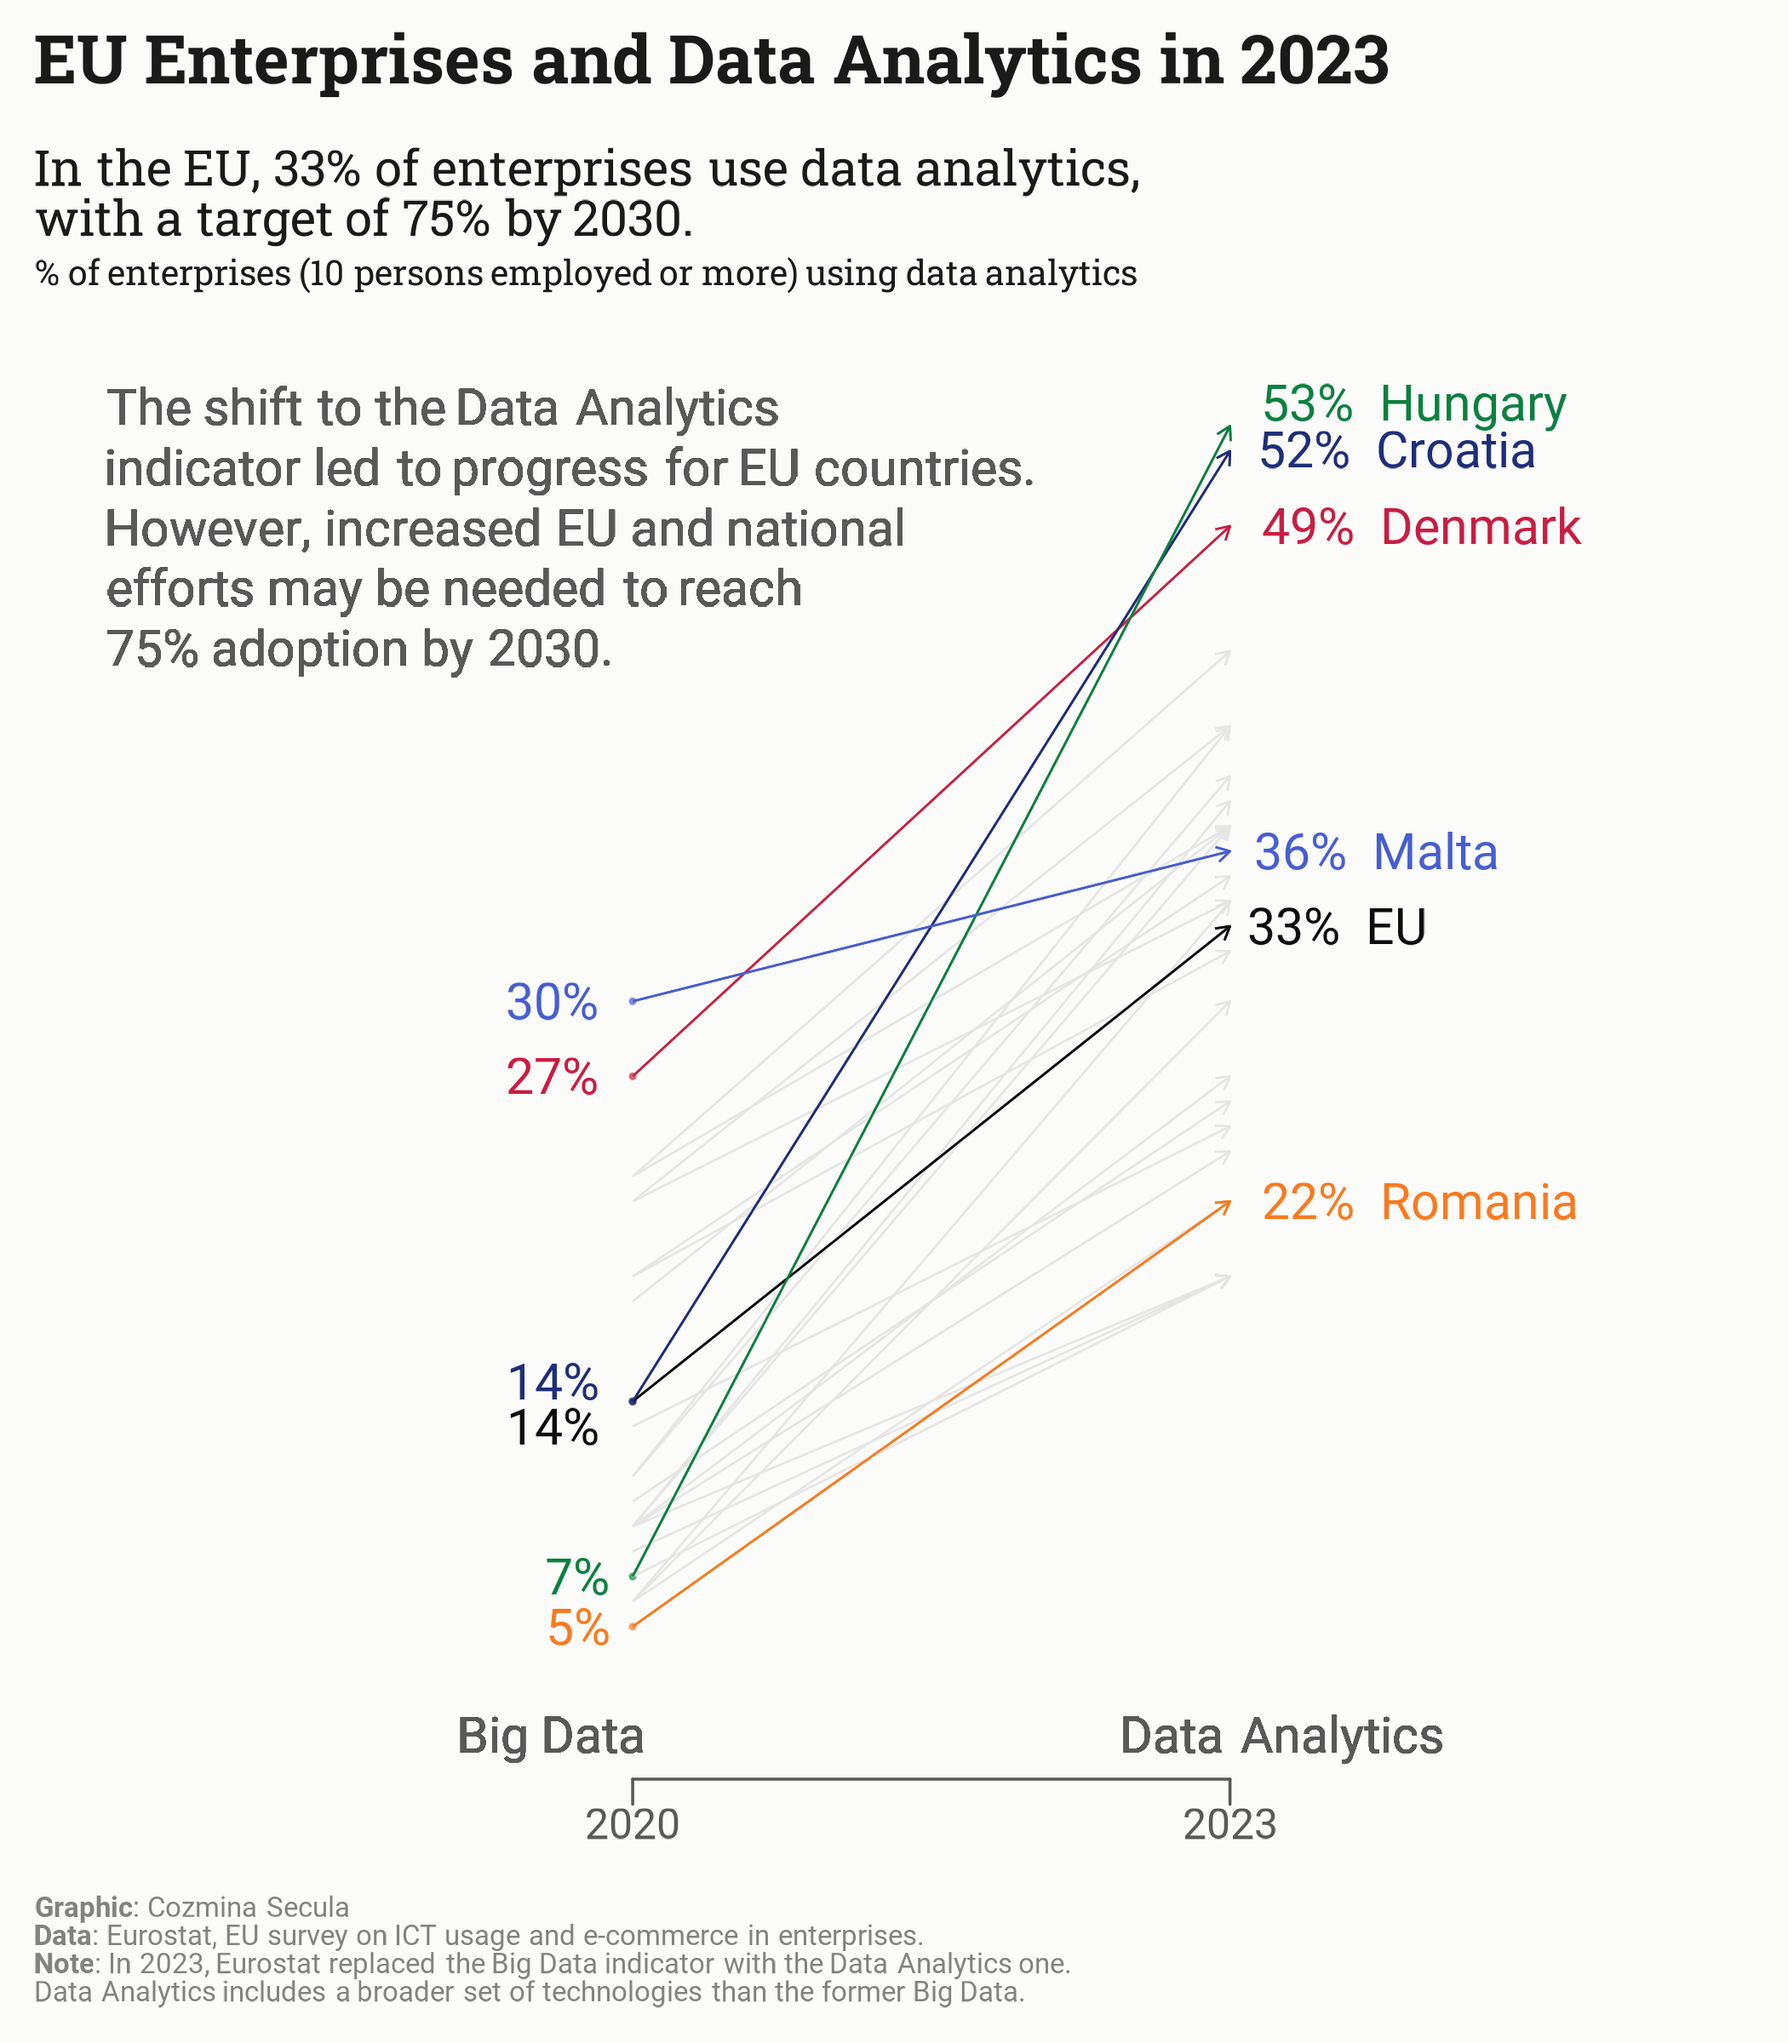
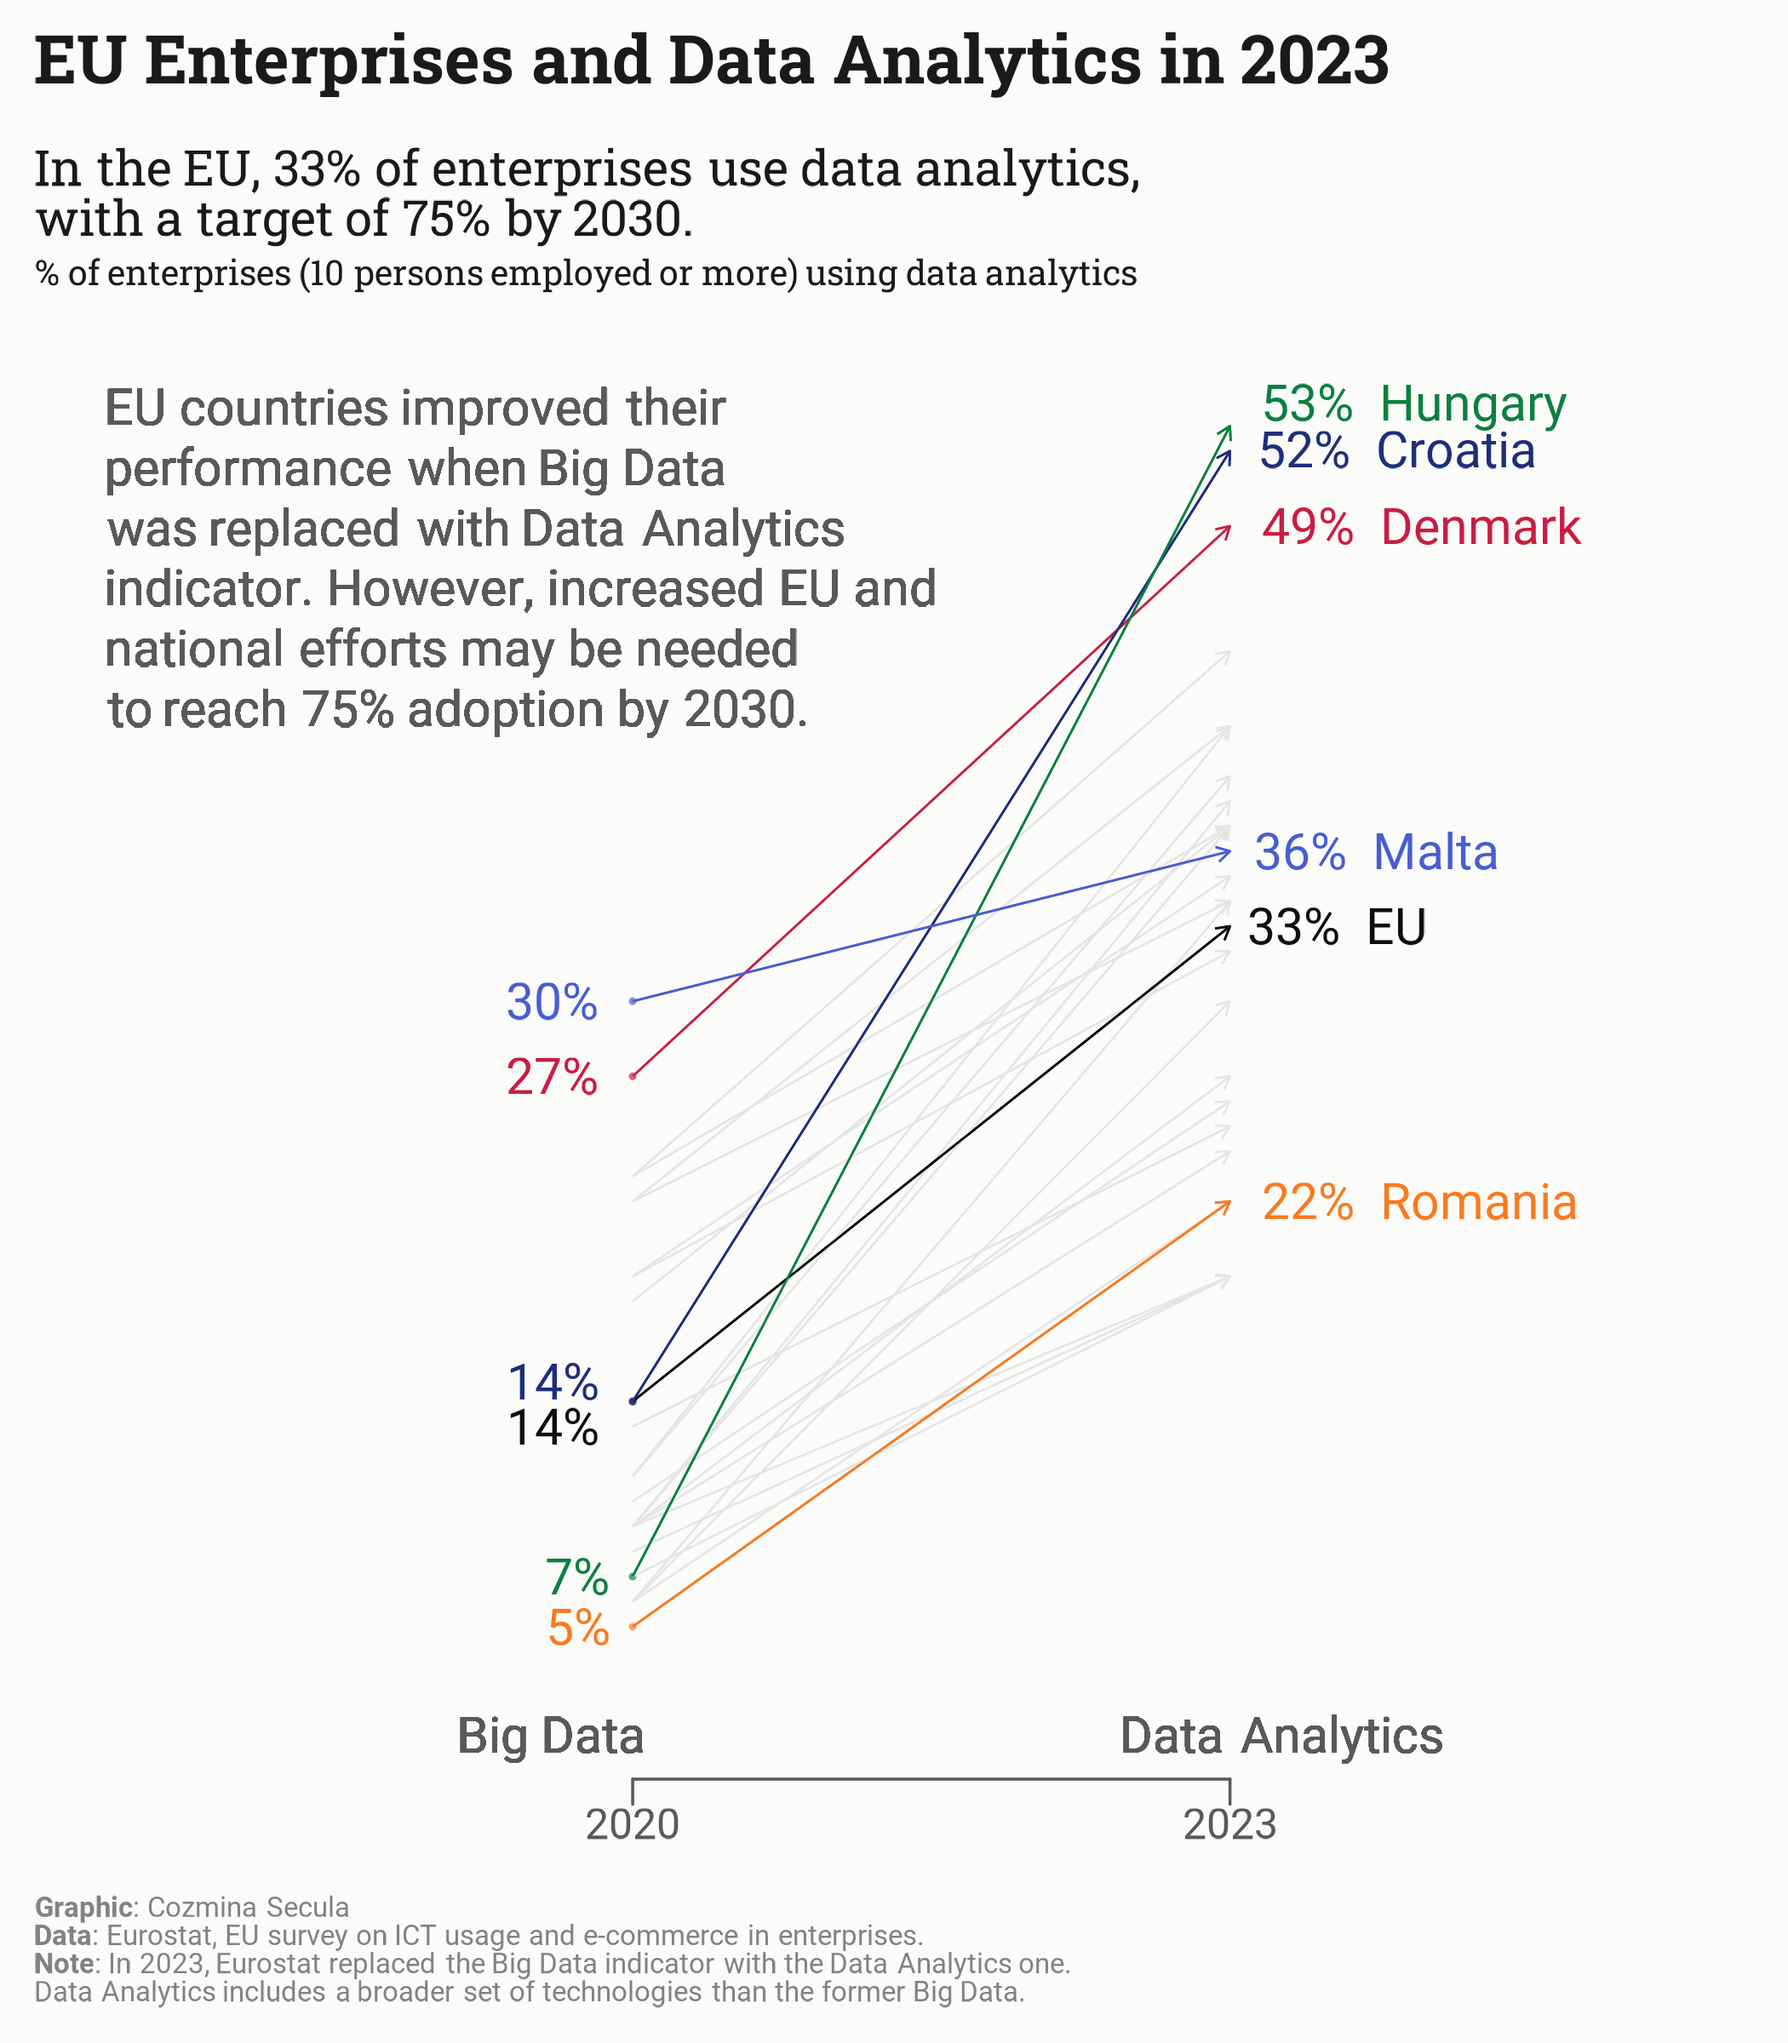
update

Changed region(s): [[0.0619, 0.1875, 0.5881, 0.375]]

diff --git a/docs/weekly_dataviz/week_4_2024_09_26/index.html b/docs/weekly_dataviz/week_4_2024_09_26/index.html
@@ -292,7 +292,7 @@ pre > code.sourceCode > span > a:first-child::before { text-decoration: underlin
 <span></span>
 <span><span class="va">title</span> <span class="op">&lt;-</span> <span class="fu"><a href="https://rdrr.io/r/base/paste.html">paste0</a></span><span class="op">(</span><span class="st">"EU Enterprises and Data Analytics in 2023"</span><span class="op">)</span></span>
 <span></span>
-<span><span class="va">callout</span> <span class="op">&lt;-</span> <span class="fu"><a href="https://rdrr.io/r/base/paste.html">paste0</a></span><span class="op">(</span><span class="st">"The shift to the Data Analytics &lt;br&gt;indicator led to progress for EU countries. &lt;br&gt;However, increased EU and national &lt;br&gt;efforts may be needed to reach&lt;br&gt; 75% adoption by 2030."</span><span class="op">)</span></span>
+<span><span class="va">callout</span> <span class="op">&lt;-</span> <span class="fu"><a href="https://rdrr.io/r/base/paste.html">paste0</a></span><span class="op">(</span><span class="st">"EU countries improved their &lt;br&gt;performance when Big Data &lt;br&gt;was replaced with Data Analytics &lt;br&gt;indicator. However, increased EU and &lt;br&gt;national efforts may be needed &lt;br&gt;to reach 75% adoption by 2030."</span><span class="op">)</span></span>
 <span></span>
 <span><span class="co"># Define the countries of interest</span></span>
 <span><span class="va">highlight_countries</span> <span class="op">&lt;-</span> <span class="fu"><a href="https://rdrr.io/r/base/c.html">c</a></span><span class="op">(</span><span class="st">"Hungary"</span>, <span class="st">"Croatia"</span>, <span class="st">"Denmark"</span>, <span class="st">"Romania"</span>, <span class="st">"Malta"</span>, <span class="st">"EU"</span><span class="op">)</span></span>
@@ -1084,7 +1084,7 @@ window.document.addEventListener("DOMContentLoaded", function (event) {
 <span id="cb2-120"><a href="#cb2-120" aria-hidden="true" tabindex="-1"></a></span>
 <span id="cb2-121"><a href="#cb2-121" aria-hidden="true" tabindex="-1"></a>title <span class="ot">&lt;-</span> <span class="fu">paste0</span>(<span class="st">"EU Enterprises and Data Analytics in 2023"</span>)</span>
 <span id="cb2-122"><a href="#cb2-122" aria-hidden="true" tabindex="-1"></a></span>
-<span id="cb2-123"><a href="#cb2-123" aria-hidden="true" tabindex="-1"></a>callout <span class="ot">&lt;-</span> <span class="fu">paste0</span>(<span class="st">"The shift to the Data Analytics &lt;br&gt;indicator led to progress for EU countries. &lt;br&gt;However, increased EU and national &lt;br&gt;efforts may be needed to reach&lt;br&gt; 75% adoption by 2030."</span>)</span>
+<span id="cb2-123"><a href="#cb2-123" aria-hidden="true" tabindex="-1"></a>callout <span class="ot">&lt;-</span> <span class="fu">paste0</span>(<span class="st">"EU countries improved their &lt;br&gt;performance when Big Data &lt;br&gt;was replaced with Data Analytics &lt;br&gt;indicator. However, increased EU and &lt;br&gt;national efforts may be needed &lt;br&gt;to reach 75% adoption by 2030."</span>)</span>
 <span id="cb2-124"><a href="#cb2-124" aria-hidden="true" tabindex="-1"></a></span>
 <span id="cb2-125"><a href="#cb2-125" aria-hidden="true" tabindex="-1"></a><span class="co"># Define the countries of interest</span></span>
 <span id="cb2-126"><a href="#cb2-126" aria-hidden="true" tabindex="-1"></a>highlight_countries <span class="ot">&lt;-</span> <span class="fu">c</span>(<span class="st">"Hungary"</span>, <span class="st">"Croatia"</span>, <span class="st">"Denmark"</span>, <span class="st">"Romania"</span>, <span class="st">"Malta"</span>, <span class="st">"EU"</span>)</span>

diff --git a/docs/weekly_dataviz.html b/docs/weekly_dataviz.html
@@ -257,7 +257,7 @@ window.Quarto = {
 
 <div class="quarto-listing quarto-listing-container-default" id="listing-listing">
 <div class="list quarto-listing-default">
-<div class="quarto-post image-right" data-index="0" data-listing-date-sort="1727298000000" data-listing-file-modified-sort="1727419425664" data-listing-date-modified-sort="NaN" data-listing-reading-time-sort="15" data-listing-word-count-sort="2910">
+<div class="quarto-post image-right" data-index="0" data-listing-date-sort="1727298000000" data-listing-file-modified-sort="1727611500084" data-listing-date-modified-sort="NaN" data-listing-reading-time-sort="15" data-listing-word-count-sort="2911">
 <div class="thumbnail">
 <p><a href="./weekly_dataviz/week_4_2024_09_26/index.html" class="no-external"></a></p><a href="./weekly_dataviz/week_4_2024_09_26/index.html" class="no-external">
 <p><img loading="lazy" src="./weekly_dataviz/week_4_2024_09_26/da_plot.png" class="thumbnail-image"></p>

diff --git a/docs/index.html b/docs/index.html
@@ -360,7 +360,7 @@ No matching items
 <h2 data-anchor-id="weekly-dataviz">Weekly DataViz</h2>
 <div id="listing-weekly_dataviz" class="quarto-listing quarto-listing-container-grid">
 <div class="list grid quarto-listing-cols-3">
-<div class="g-col-1" data-index="0" data-listing-date-sort="1727298000000" data-listing-file-modified-sort="1727419425664" data-listing-date-modified-sort="NaN" data-listing-reading-time-sort="15" data-listing-word-count-sort="2910">
+<div class="g-col-1" data-index="0" data-listing-date-sort="1727298000000" data-listing-file-modified-sort="1727611500084" data-listing-date-modified-sort="NaN" data-listing-reading-time-sort="15" data-listing-word-count-sort="2911">
 <a href="./weekly_dataviz/week_4_2024_09_26/index.html" class="quarto-grid-link">
 <div class="quarto-grid-item card h-100 card-left">
 <p class="card-img-top">
